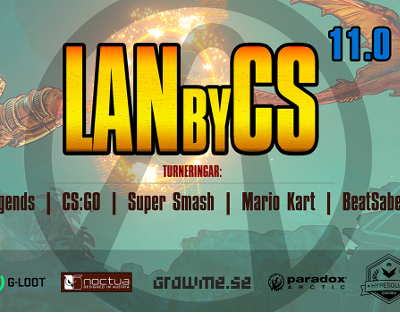
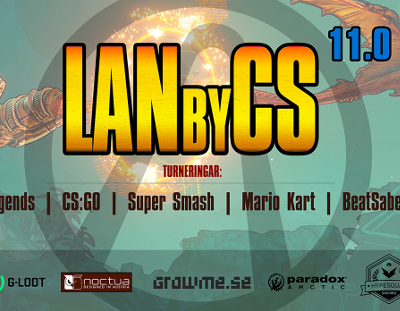
small width changes to img

diff --git a/assets/scss/_layout.scss b/assets/scss/_layout.scss
@@ -280,7 +280,7 @@
 		margin: 3rem 0 .5rem;
 
 		&:first-of-type {
-			margin-top: 0;
+			margin-top: 7px;
 		}
 	}
 
@@ -300,6 +300,7 @@
 
 	img {
 		width: 100%;
+		max-width: max-content;
 		margin-top: 20px;
 	}
 }

diff --git a/_posts/projects/2019-05-20-alumni.md b/_posts/projects/2019-05-20-alumni.md
@@ -7,14 +7,14 @@ meta:
   keywords: "Jekyll, idag, inatt"
 
 project:
-  title: "Design of an alumni network"
-  type: "Project"
+  title: "Alumni network"
+  type: "Designing for user experience"
   url: "https://github.com/arnolds/pineapple"
   logo: "/assets/images/projects/alumni/alumnloggo.jpg"
   tech: "Mock-ups, User testing, User driven design, UX, graphical design"
 
 agency:
-  title: "Designing for user experience - project group"
+  title: "Students from my program"
   url: "https://idag.interaktion.nu"
   year: "2019"
 

diff --git a/_posts/projects/2020-01-15-antiTD.md b/_posts/projects/2020-01-15-antiTD.md
@@ -8,13 +8,13 @@ meta:
 
 project:
   title: "Anti-Tower Defense Game"
-  type: "Project"
+  type: "Programming"
   url: "https://github.com/arnolds/pineapple"
   logo: "/assets/images/projects/antiTD/computer.png"
   tech: "Java, XML, TDD"
 
 agency:
-  title: "Group project"
+  title: "Computer science / interaction design students"
   url: "https://idag.interaktion.nu"
   year: "2020"
 
